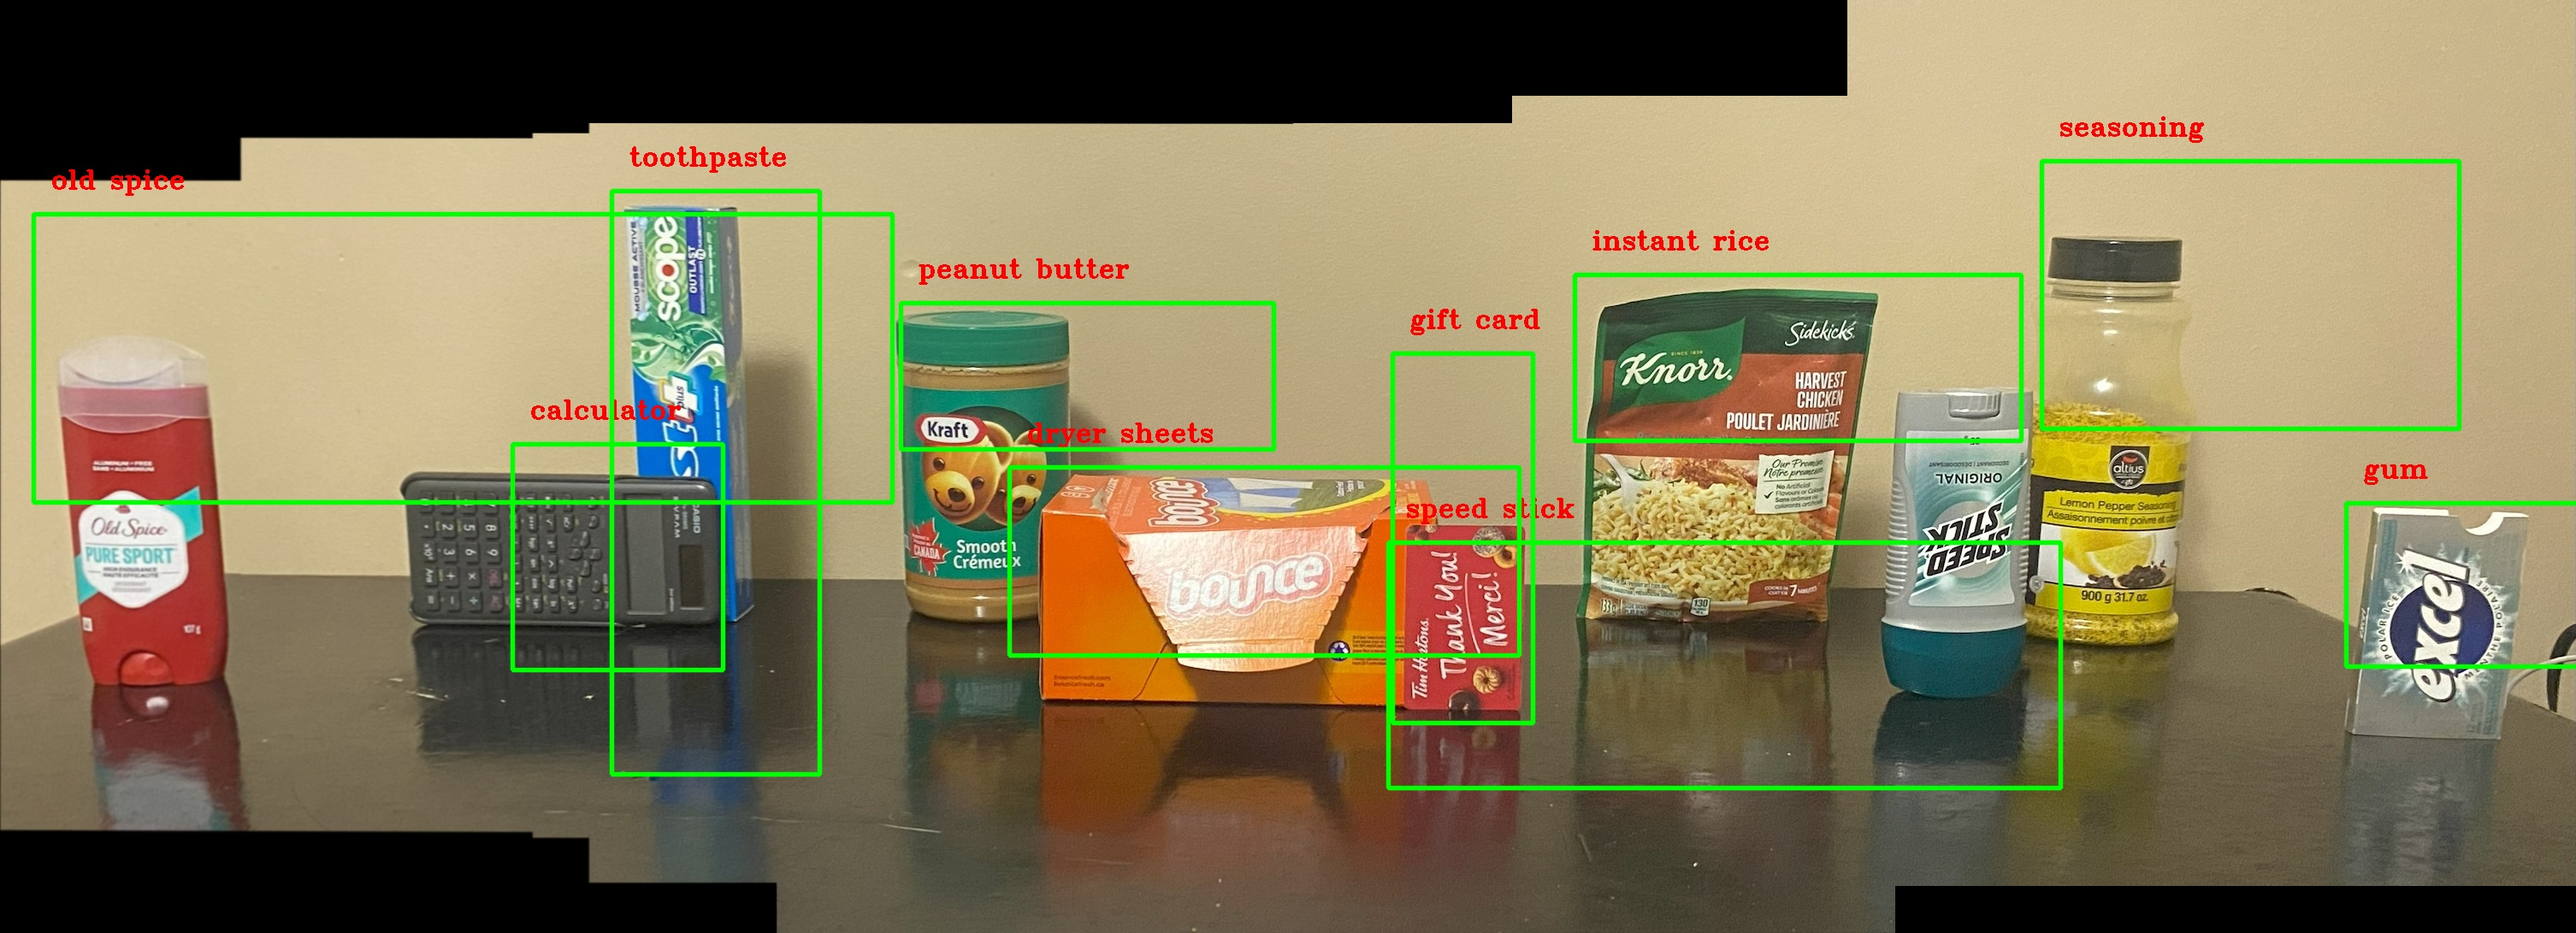
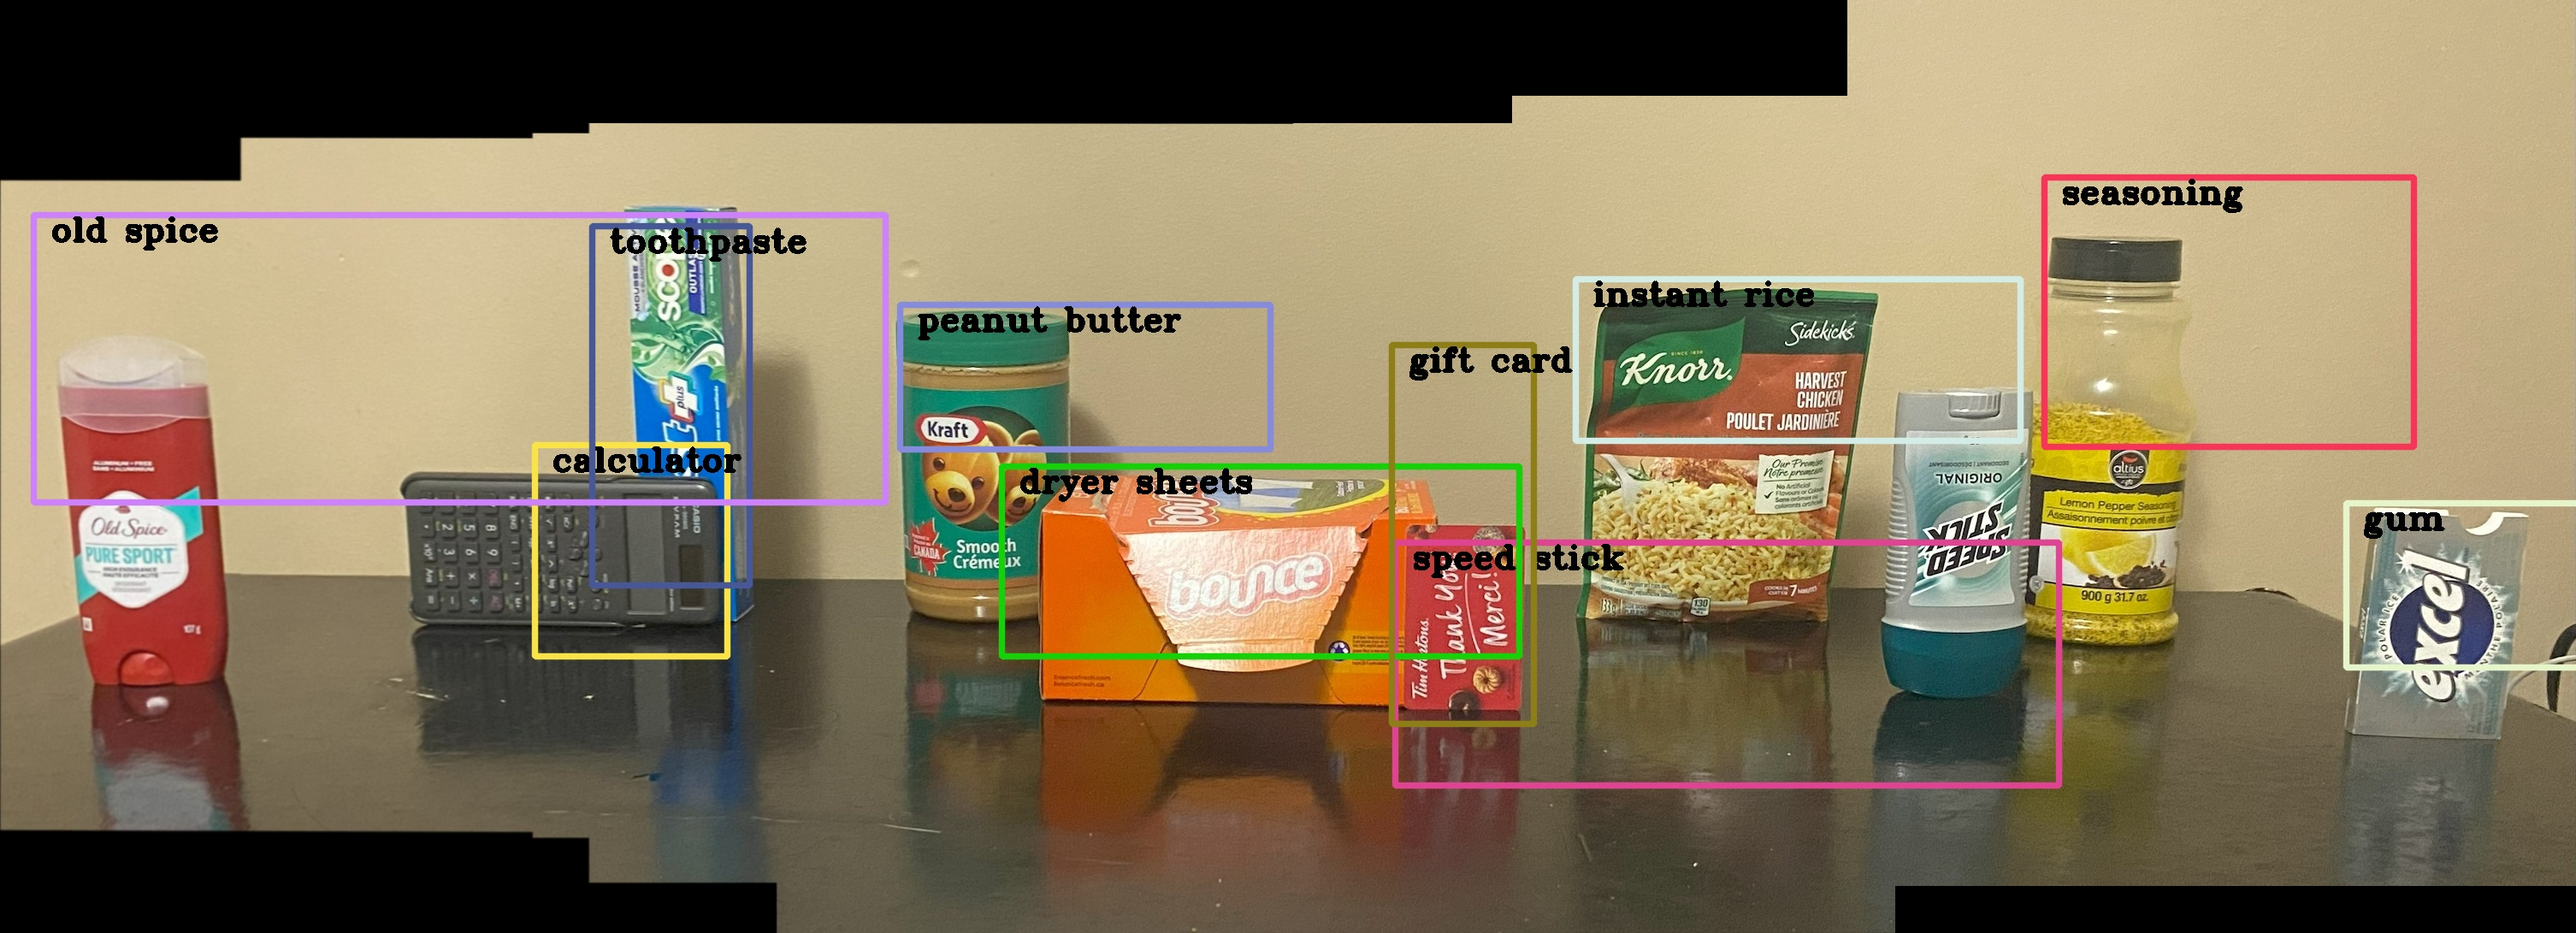
k

diff --git a/Code/Task3.py b/Code/Task3.py
@@ -11,7 +11,7 @@ __updated__ = "2024-11-20"
 import cv2 as cv
 import numpy as np
 import os
-from sklearn.cluster import DBSCAN
+from random import randint
 
 # Constants
 DIRECTORY = "./Panorama"
@@ -229,7 +229,7 @@ if __name__ == "__main__":
     pano_kp, pano_des = detect_and_describe(stitched_image)
     for i, objectImageFile in enumerate(sorted(os.listdir(OBJECTS_DIRECTORY))):
         objectImage = cv.imread(os.path.join(OBJECTS_DIRECTORY, objectImageFile))
-        obj_kp, obj_des = detect_and_describe(cv.GaussianBlur(objectImage,(9, 9), 3))
+        obj_kp, obj_des = detect_and_describe(cv.GaussianBlur(objectImage,(11, 11), 4))
 
         matches = match_keypoints(obj_des, pano_des)
 
@@ -244,15 +244,15 @@ if __name__ == "__main__":
         
 
         x, y, w, h = cv.boundingRect(np.int32(dst))
-        stitched_image = cv.rectangle(stitched_image, (x, y), (x + w, y + h), (0,255, 0), 3, cv.LINE_AA)
+        stitched_image = cv.rectangle(stitched_image, (x, y), (x + w, y + h), (randint(1,255),randint(1,255), randint(1,255)), 5, cv.LINE_AA)
         cv.putText(
             stitched_image,
             object_names[i],
-            (x+20, y- 30),
+            (x+20, y+ 30),
             cv.FONT_HERSHEY_TRIPLEX,
-            1.0,
-            (0,0, 255),
-            2,
+            1.25,
+            (0,0, 0),
+            3,
         )
         # Match objects to the scene
     output_path = os.path.join(DIRECTORY, "Panorama_bb.jpg")
